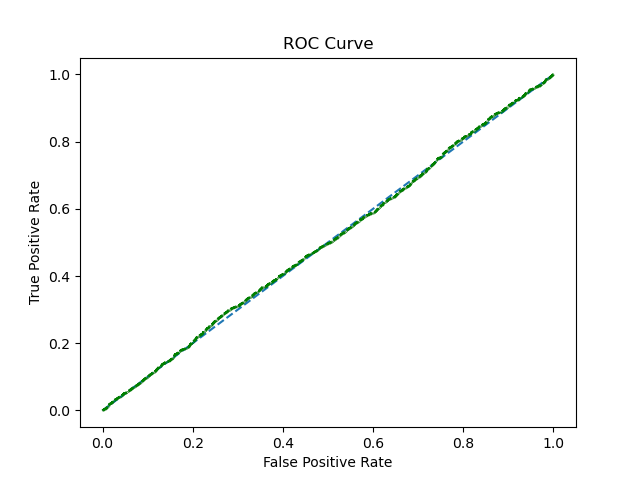
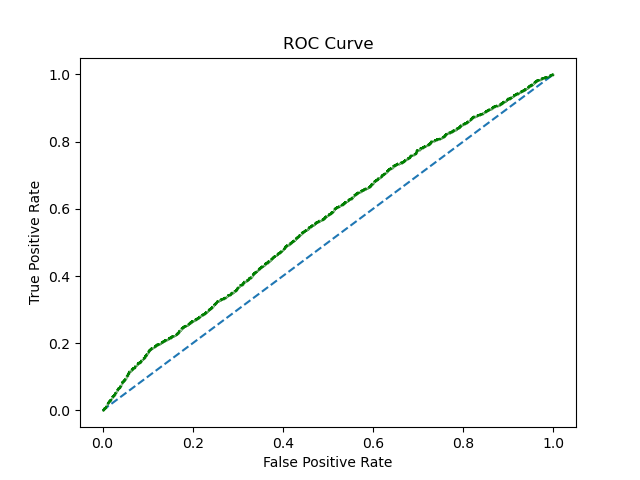
another set of good weights and graphs

diff --git a/Enhanced-ANN-GSGD/bayesian_parameter_tuning_guided.py b/Enhanced-ANN-GSGD/bayesian_parameter_tuning_guided.py
@@ -63,15 +63,15 @@ def train_evaluate(parameterization):
 def main_func():
     best_parameters, values, experiment, model = optimize(
         parameters=[
-            {"name": "lr", "type": "range", "bounds": [1e-6, 0.0002], "log_scale": True},
-            {"name": "lambda", "type": "range", "bounds":[1e-6, 0.9]},
-            # {"name": "momentum", "type": "range", "bounds":[0.1, 0.5]},
-            {"name": "n_hiddenA", "type": "range", "bounds": [1, 50]},
-            {"name": "n_hiddenB", "type": "range", "bounds": [1, 50]},
-            {"name": "n_hiddenC", "type": "range", "bounds": [1, 50]},
-            {"name": "n_hiddenD", "type": "range", "bounds": [1, 50]},
+            {"name": "lr", "type": "range", "bounds": [1e-20, 1.0], "log_scale": True},
+            {"name": "lambda", "type": "range", "bounds":[1e-20, 1.0]},
+            {"name": "momentum", "type": "range", "bounds":[1e-20, 1.0]},
+            {"name": "n_hiddenA", "type": "range", "bounds": [1, 500]},
+            # {"name": "n_hiddenB", "type": "range", "bounds": [1, 50]},
+            # {"name": "n_hiddenC", "type": "range", "bounds": [1, 50]},
+            # {"name": "n_hiddenD", "type": "range", "bounds": [1, 50]},
             {"name": "batch_size", "type": "range", "bounds": [1, 1000]},        
-            # {"name": "dampening", "type": "range", "bounds": [0.0, 0.9]},        
+            {"name": "dampening", "type": "range", "bounds": [0.0, 0.9]},        
             {"name": "epochs", "type": "range", "bounds": [1, 30]},        
         ],
     
@@ -88,6 +88,8 @@ def net_train(net, train_loader, parameters, dtype, device):
 
     l_rate = parameters.get("lr", 0.00085)
     lamda = parameters.get("lambda", 0.001)  #Lambda will be used for L2 regularizaion
+    momentum =  parameters.get("momentum", 0.9) 
+    dampening = parameters.get("dampening","0.9")
     betas = (0.9, 0.999)
     beta = 0.9
     epsilon = 1e-8
@@ -95,7 +97,7 @@ def net_train(net, train_loader, parameters, dtype, device):
     net.to(dtype=dtype, device=device)
     criterion = nn.MSELoss()
 
-    optim_params = l_rate, lamda, betas, beta, epsilon
+    optim_params = l_rate, lamda, betas, beta, epsilon, momentum, dampening
     optims = ['SGD', 'ADAM', 'ADADELTA', 'RMSPROP', 'ADAGRAD']
     
     optim_name = optims[0] #update this to perform hyperparametr tuning for different optimizers
@@ -124,21 +126,15 @@ def init_net(parameterization, d):
     model = nn.Sequential(
                       nn.Linear(d, parameterization.get("n_hiddenA",4)),
                       nn.Sigmoid(),
-                      nn.Linear(parameterization.get("n_hiddenA",4), parameterization.get("n_hiddenB",4)),
-                      nn.Sigmoid(),
-                      nn.Linear(parameterization.get("n_hiddenB",4), parameterization.get("n_hiddenC",4)),
-                      nn.Sigmoid(),
-                      nn.Linear(parameterization.get("n_hiddenC",4), parameterization.get("n_hiddenD",4)),
-                      nn.Sigmoid(),
-                      nn.Linear(parameterization.get("n_hiddenD", 4), 1),
+                      nn.Linear(parameterization.get("n_hiddenA", 4), 1),
                       nn.Sigmoid()).to(device=device)
 
     return model # return untrained model
 
 def get_optimizer(network, name, cache):
-    l_rate, lamda, betas, beta, epsilon= cache 
+    l_rate, lamda, betas, beta, epsilon, momentum, dampening = cache 
     if(name == 'SGD'):
-        return torch.optim.SGD(network.parameters(), lr=l_rate, weight_decay= lamda)
+        return torch.optim.SGD(network.parameters(), lr=l_rate, weight_decay= lamda, momentum=momentum, dampening=dampening)
     elif(name == 'ADAM'):
         return torch.optim.Adam(network.parameters(), lr=l_rate, betas= betas,  weight_decay= lamda)
     elif(name == 'ADADELTA'):

diff --git a/Enhanced-ANN-GSGD/main.py b/Enhanced-ANN-GSGD/main.py
@@ -29,9 +29,9 @@ def GSGD_ANN(filePath):
     NC, x, y, N, d, xts, yts = readData(filePath)
     
     #model parameters
-    l_rate = 0.0002314354244#0.00011852732093870824#0.00010926827346753853 #0.0002814354245#0.0002216960781458557#0.0002314354244 #0.000885 #0.061 #0.00025 #0.5
-    n_hidden = 36#4
-    lamda =  1e-06#0.6980844659683136 #1e-06#0.0001  #Lambda will be used for L2 regularizaion
+    l_rate =  0.02#0.0001#0.0002314354244#9.309681215145698e-15#3.0952770286463463e-07#0.0003314354244#0.00011852732093870824#0.00010926827346753853 #0.0002814354245#0.0002216960781458557#0.0002314354244 #0.000885 #0.061 #0.00025 #0.5
+    n_hidden = 300#36#29#50#36#4
+    lamda =  1e-06#0.5964800918102662#0.06067045242012771#1e-05#0.6980844659683136 #1e-06#0.0001  #Lambda will be used for L2 regularizaion
     betas = (0.9, 0.999)
     beta = 0.9
     epsilon = 1e-8
@@ -59,9 +59,9 @@ def GSGD_ANN(filePath):
     is_guided_approach = True
     rho = 7
     versetnum = 5 #number of batches used for verification
-    epochs = 15
+    epochs = 27#15
     revisitNum = 3
-    batch_size = 30#891#32
+    batch_size = 5#812#122#468#300#891#32
 
     #evaluate GSGD
     cache = is_guided_approach, rho, versetnum,epochs, revisitNum, N, network_GSGD, optimizer_GSGD, T, batch_size

diff --git a/Enhanced-ANN-GSGD/network.py b/Enhanced-ANN-GSGD/network.py
@@ -17,7 +17,7 @@ def train_network(network, data_x, data_y, loss_function, optimizer):
 def get_optimizer(network, name, cache):
     l_rate, lamda, betas, beta, epsilon = cache 
     if(name == 'SGD'):
-        return torch.optim.SGD(network.parameters(), lr=l_rate, weight_decay= lamda, momentum=0.9, dampening=0.3)
+        return torch.optim.SGD(network.parameters(), lr=l_rate, weight_decay= lamda, momentum=1e-20, dampening= 0.7754318114218602)
         #return torch.optim.SGD(network.parameters(), lr=l_rate, weight_decay= lamda)
     elif(name == 'ADAM'):
         return torch.optim.Adam(network.parameters(), lr=l_rate, betas= betas,  weight_decay= lamda)

diff --git a/Enhanced-ANN-GSGD/readData.py b/Enhanced-ANN-GSGD/readData.py
@@ -22,7 +22,7 @@ def readData(file_path):
     
     if apply_smote_oversampling:
         #avishek- start oversampling minority class in training data only    
-        oversample = SMOTE(random_state=20)
+        oversample = SMOTE()
     
         x, y = oversample.fit_resample(X_train_old,Y_train_old)
     else:
